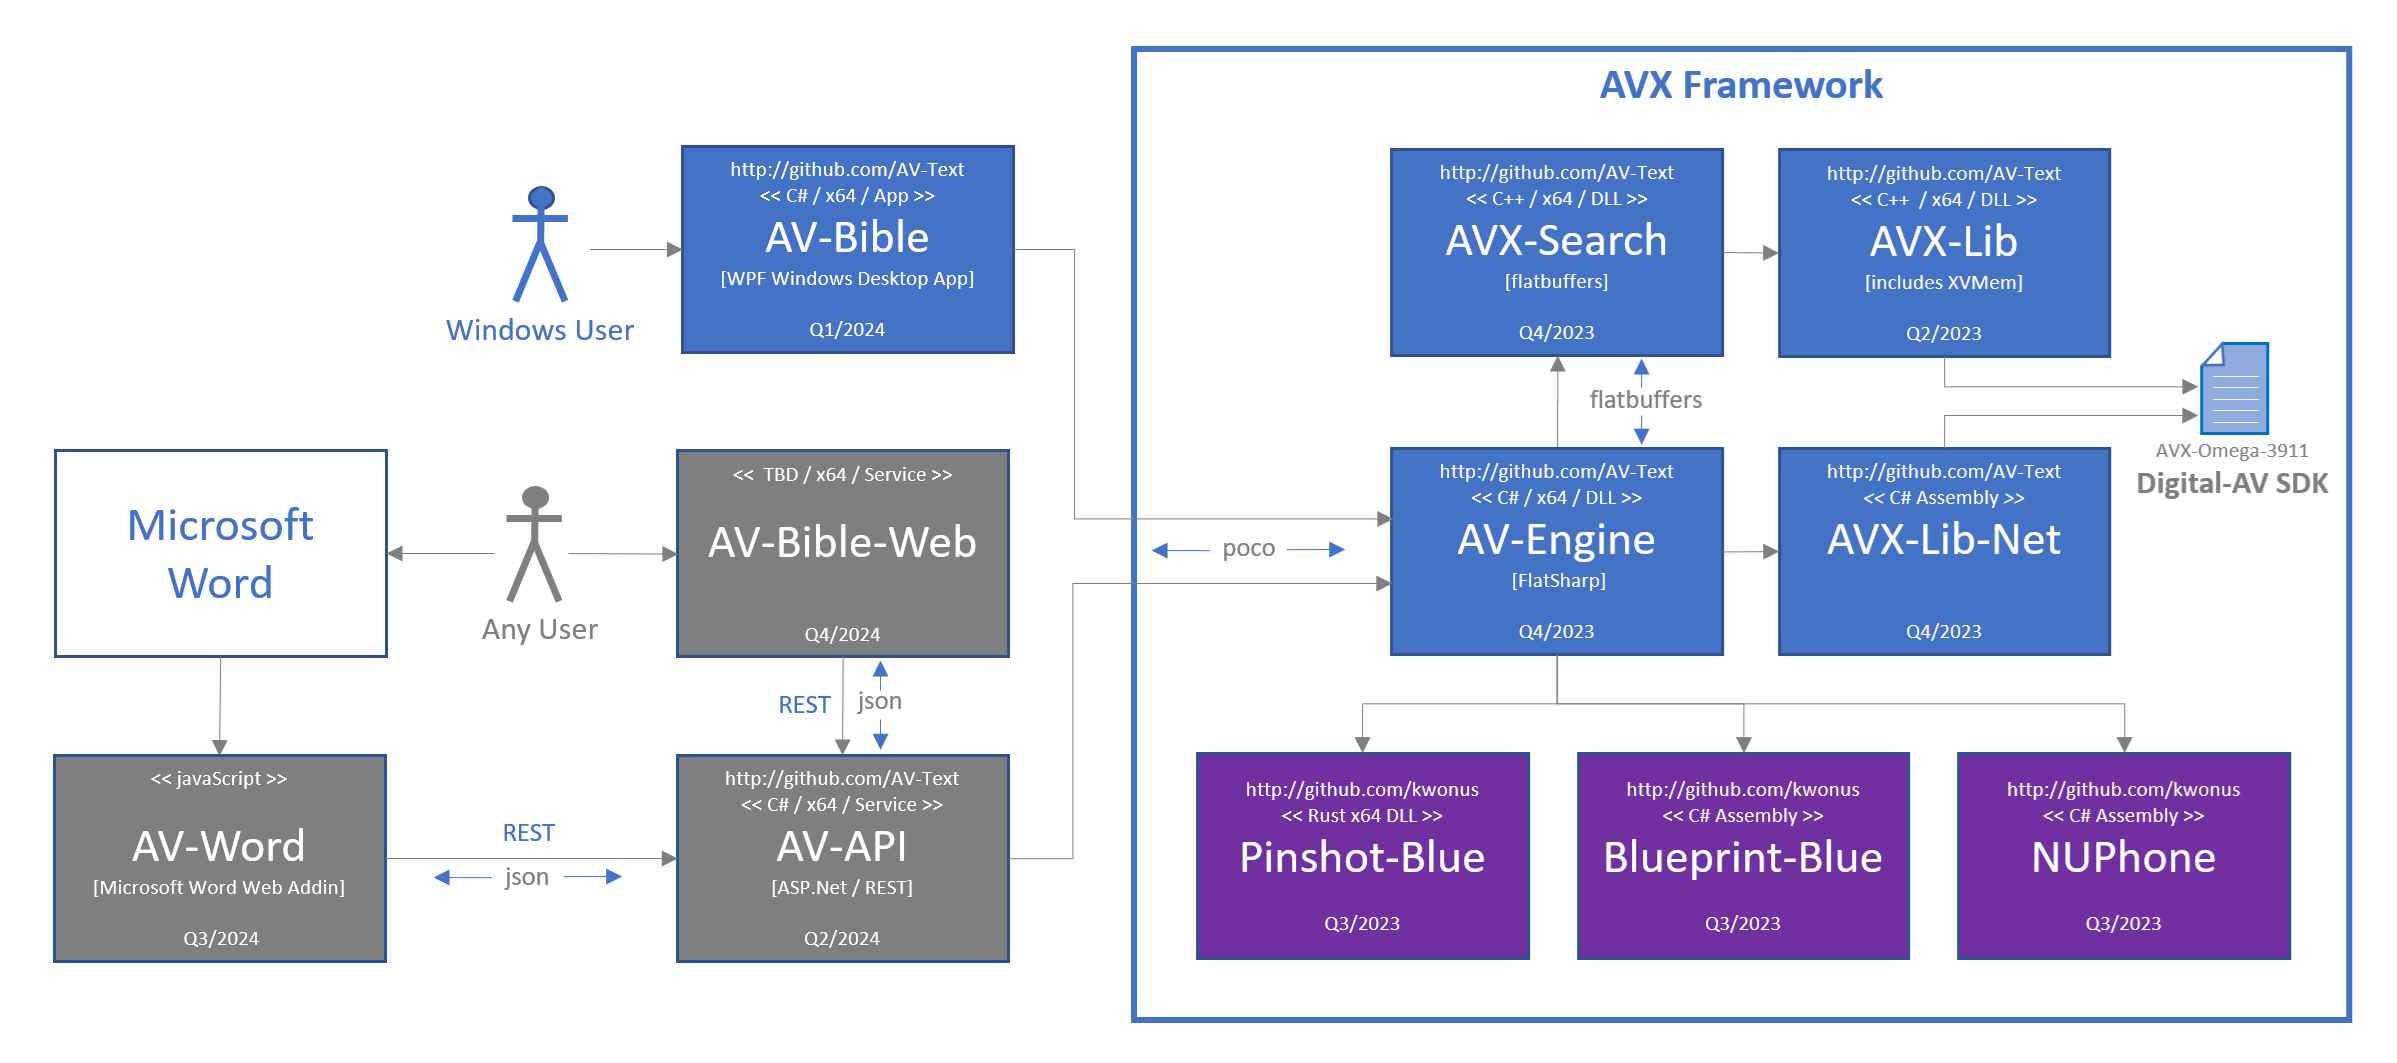
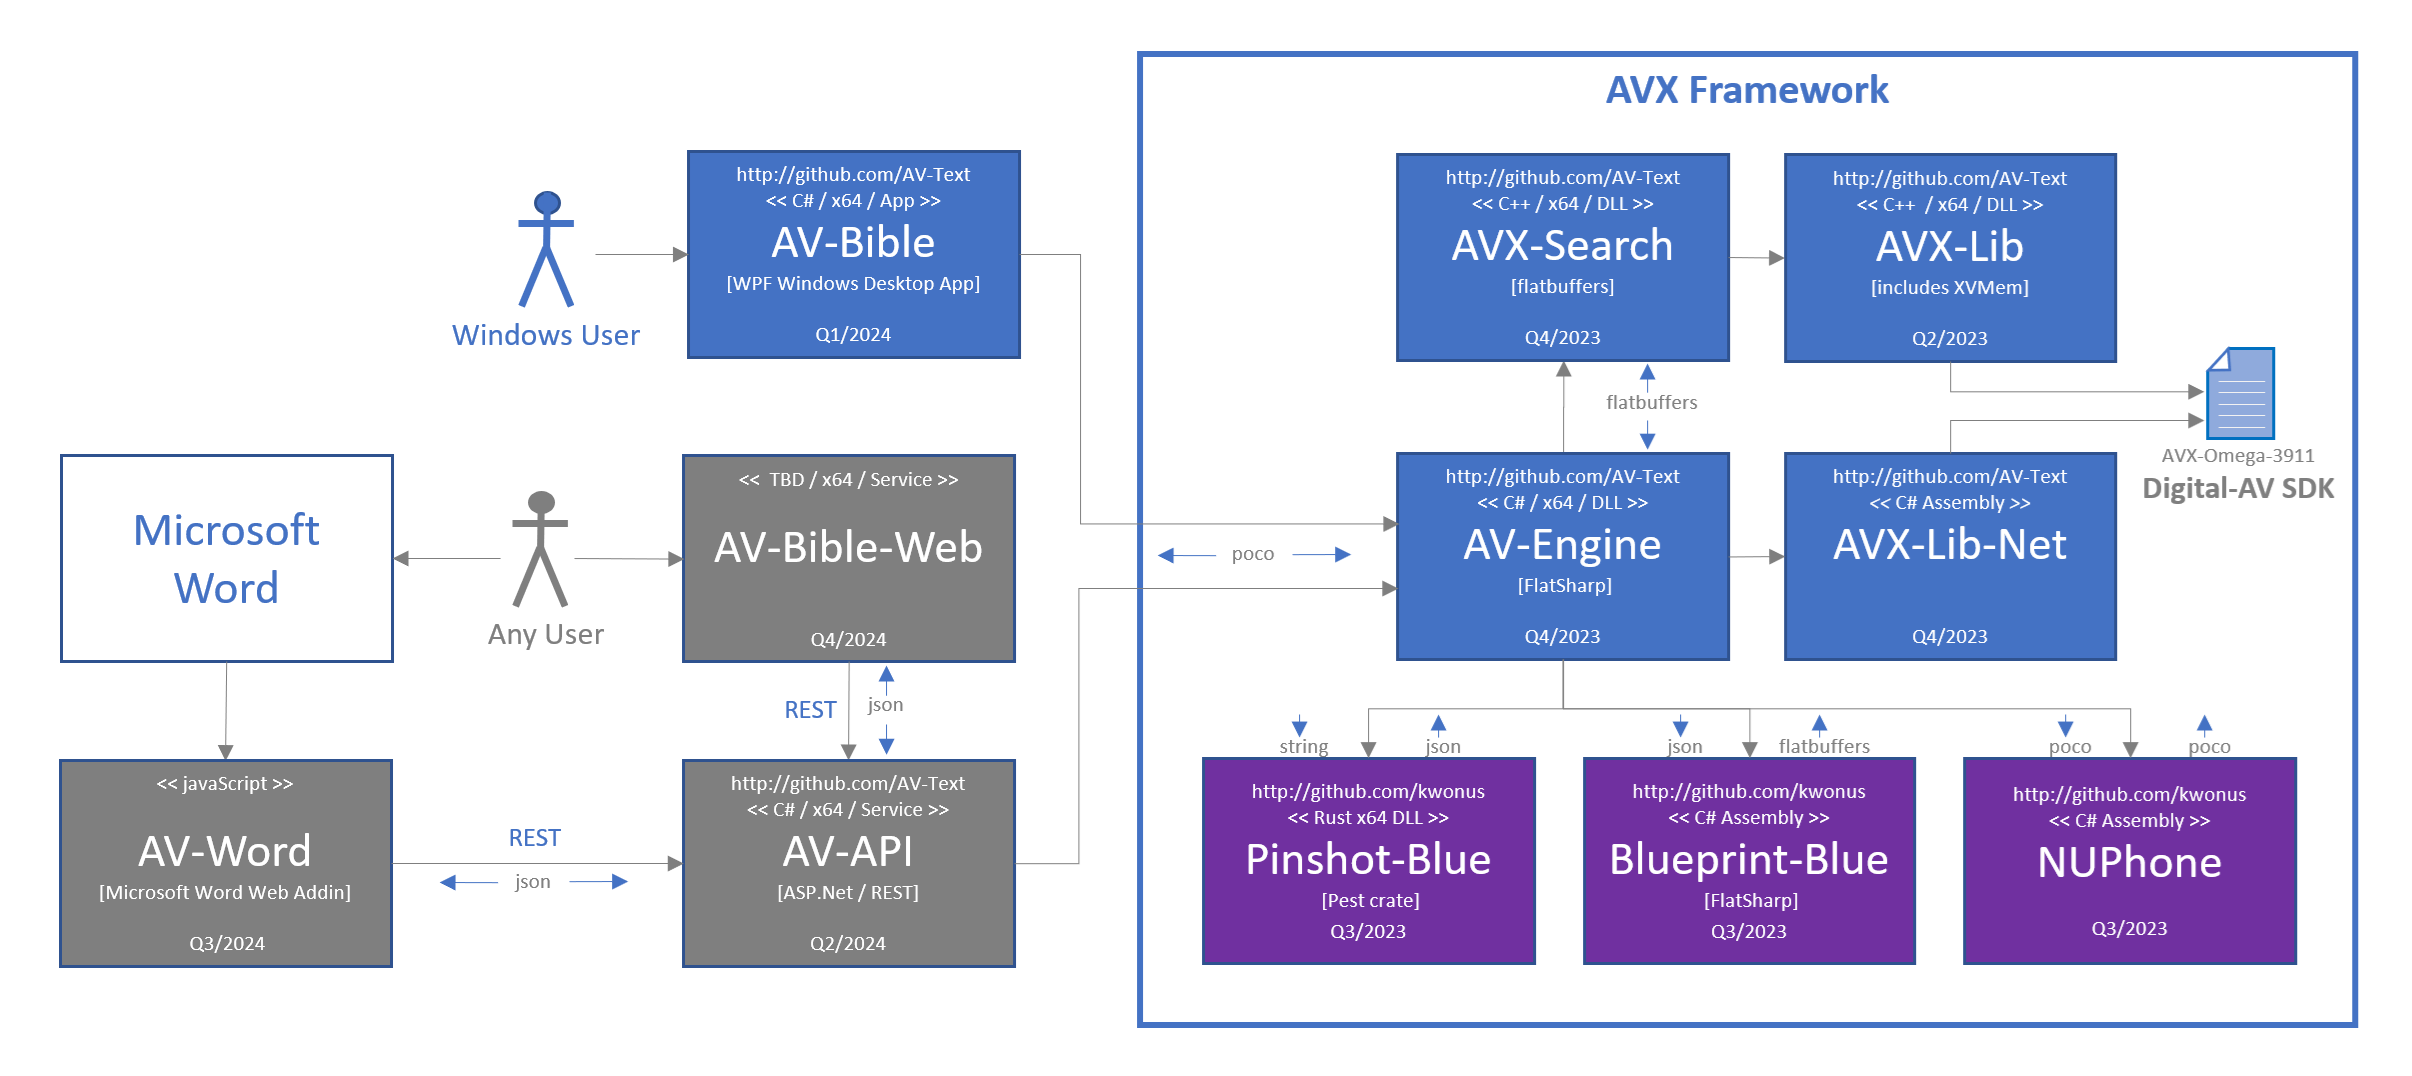
Refresh the README

diff --git a/README.md b/README.md
@@ -18,23 +18,23 @@ The latest architecture is highly modularized. Earlier works were much more mono
 
 AV Text ministries hopes that you find assets here that can assist you in building next-gen, quality applications using the most trustworthy English text that God has yet availed to mankind [The Authorized Version 1769 text, commonly known as the King James Bible]. The Digital-AV license is designed to be as free as the gospel. Use it as you see fit, hopefully to the glory of God.
 
-Consumers of AVX-Framework directly target a single dotnet assembly, namely AV-Engine. However, many publicly available classes are exposed in AVX-Lib-Net and NUPhone. It is expected that consumers of AV-Engine will reach into those two modules, but the other dependencies will be mostly opaque to AVX-Framework consumers. The seven modules that compose AVX-Framework are depicted in Figure-1:
+Consumers of AVX-Framework directly target a single dotnet assembly, namely AV-Engine. However, many publicly available classes are exposed in AVX-Lib-Net and NUPhone. It is expected that consumers of AV-Engine will reach into those two modules, but the other dependencies will be mostly opaque to AVX-Framework consumers. The seven modules that compose the framework are depicted in Figure-1:
 
 ![](AVXSearch/AVX-Framework.png)
 
-**Figure-1**: AVX-Framework dependency diagram [revision #3A22]
+**Figure-1**: AVX-Framework dependency diagram [revision #3A23]
 
 A BETA release of AV-Bible and AV-Console are planned for 2023. The development roadmap for 2023 is depicted in Figure-2.
 
 ![](AVXSearch/AVX-Roadmap-2023.png)
 
-**Figure-2**: Development roadmap for BETA releases in 2023 [revision #3A22]
+**Figure-2**: Development roadmap for BETA releases in 2023 [revision #3A23]
 
 We plan to harden AV-Bible (Windows desktop application) and release it into the Windows Store in the first quarter of 2024. Afterwards, additional apps will be implemented and released. The diagram, depicted in Figure-3, identifies anticipated application releases and estimated release dates:
 
 ![](AVXSearch/AVX-Roadmap-2024.png)
 
-**Figure-3**: Roadmap for [user-facing] application releases in 2024 [revision #3A22]
+**Figure-3**: Roadmap for [user-facing] application releases in 2024 [revision #3A23]
 
 The blue boxes, in the diagram, are being actively developed. Planned completion dates are identified. All source-code for these can be found in this [AVX] repo. The purple boxes are already complete. Work will commence on the gray boxes some time after the release of AV-Bible to the Windows Store.  It's helpful to have this pic as a roadmap. As you can see, AVX-Framework is a core dependency for all apps. For additional info on the purple boxes and the Digital-AV SDK, head on over to my other repos at  https://github.com/kwonus.
 
